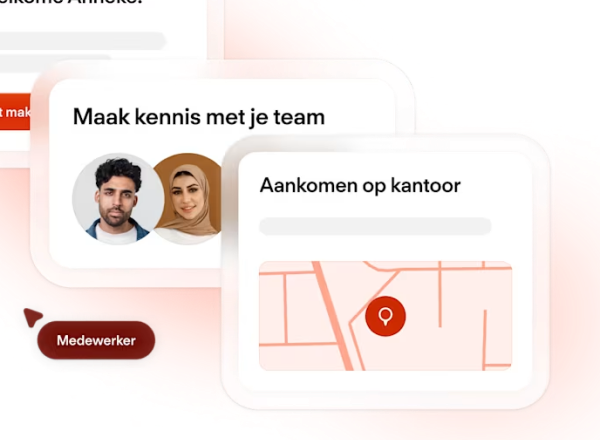
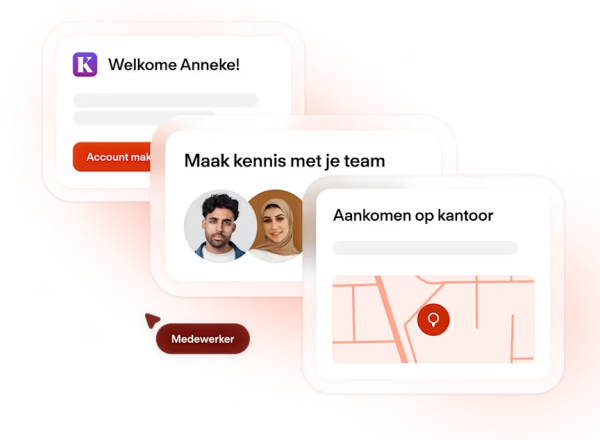
Announcement dialog: transparent outro with fade, refreshed illustrations, type/colour tweaks
- Outro illustration now transparent with a tint fade-out at the bottom
- Refreshed outro + welcome illustrations
- Progress fill uses content-subtle
- All dialog titles at 26px (text-l3)

diff --git a/prototypes/announcement-playground.html b/prototypes/announcement-playground.html
@@ -89,6 +89,8 @@
     .dlg-media img { position: absolute; inset: 0; width: 100%; height: 100%; object-fit: cover; display: block; z-index: 1; animation: mediaIn .55s cubic-bezier(.34,1.56,.64,1) both; }
     @keyframes mediaIn { from { opacity: 0; transform: scale(.93) translateY(10px); } to { opacity: 1; transform: none; } }
     .dlg-media.has-img::before { display: none; }
+    /* fade the bottom of the illustration into the body tint (used on the outro) */
+    .dlg-fade { position: absolute; inset: 0; z-index: 2; pointer-events: none; background: linear-gradient(to bottom, transparent 38%, var(--dlg-tint, var(--bg-base)) 100%); }
     .dlg-media-ph { display: flex; width: 72px; height: 72px; position: relative; z-index: 1; filter: drop-shadow(0 4px 10px rgba(25,39,67,.12)); }
     /* optional decorative wavy two-tone background (Figma 22772-980): a deeper band up top, the body tint rising in a wave */
     .dlg.has-bg .dlg-media::before { display: none; }
@@ -133,13 +135,12 @@
     .dlg-tag i[data-icon] { width: 13px; height: 13px; display: flex; }
     /* same tag, but pinned in the bottom-left of the illustration */
     .dlg-tag-media { position: absolute; left: 16px; bottom: 16px; margin: 0; background: rgba(255,255,255,.96); color: var(--content-base); border-color: rgba(255,255,255,.7); box-shadow: 0 1px 3px rgba(25,39,67,.15); }
-    .dlg-title { font-size: 20px; font-weight: 600; margin: 0 0 8px; color: var(--content-base); }
-    .dlg-title.is-l3 { font-size: 26px; line-height: 1.3; } /* text-l3 for the intro slide */
+    .dlg-title { font-size: 26px; line-height: 1.3; font-weight: 600; margin: 0 0 8px; color: var(--content-base); } /* text-l3 on every slide */
     .dlg-text { font-size: 14px; font-weight: 400; line-height: 1.6; margin: 0; color: var(--content-base); min-height: 112px; } /* room for 5 lines, keeps step heights consistent */
     /* story-style segmented progress, vertically centred on the same line as the close button (top 16px, 36px tall) */
     .dlg-progress { position: absolute; top: 31px; left: 22px; right: 62px; z-index: 3; display: flex; gap: 6px; }
     .dlg-seg { flex: 1 0 0; min-width: 0; height: 7px; border-radius: var(--radius-full); background: rgba(25,39,67,.22); cursor: pointer; transition: background .25s ease; }
-    .dlg-seg.is-fill { background: var(--content-base); }
+    .dlg-seg.is-fill { background: var(--content-subtle); }
     .dlg-footer { display: flex; align-items: center; gap: 10px; }
     .dlg-footer .btn i[data-icon] { width: 15px; height: 15px; display: flex; }
     /* primary fills the row; the back/skip button stays at its natural width beside it */
@@ -495,7 +496,7 @@
           media:`<div class="dlg-media ${s.media?'':'is-collapsed'} ${fImg?'has-img':''}">${bgSvg(bgOn,waveOn)}${DPH}${imgTag(fImg)}${deco}</div>` }); }
       if (el('d-outro-on').checked){ const outroBg = el('d-outro-bg').checked, outroWave = el('d-outro-wave').checked;
         arr.push({ kind:'outro', title:el('d-outro-title').value, body:el('d-outro-body').value, url:el('d-outro-url').value, bgOn:outroBg,
-        media:`<div class="dlg-media ${OUTRO_IMG?'has-img':''}">${bgSvg(outroBg,outroWave)}${OUTRO_IMG?imgTag(OUTRO_IMG):'<i data-icon="zap-filled" class="dlg-intro-spark"></i>'}</div>` }); }
+        media:`<div class="dlg-media ${OUTRO_IMG?'has-img':''}">${bgSvg(outroBg,outroWave)}${OUTRO_IMG?imgTag(OUTRO_IMG)+'<div class="dlg-fade"></div>':'<i data-icon="zap-filled" class="dlg-intro-spark"></i>'}</div>` }); }
       return arr;
     }
     function dRender(){